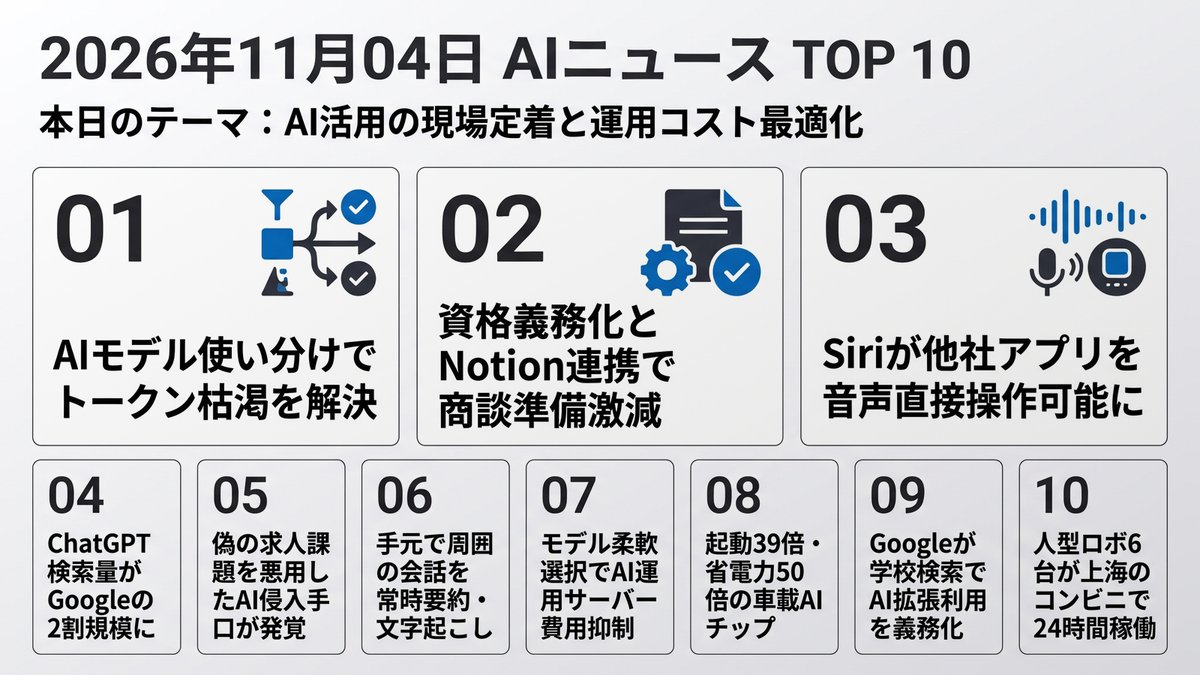
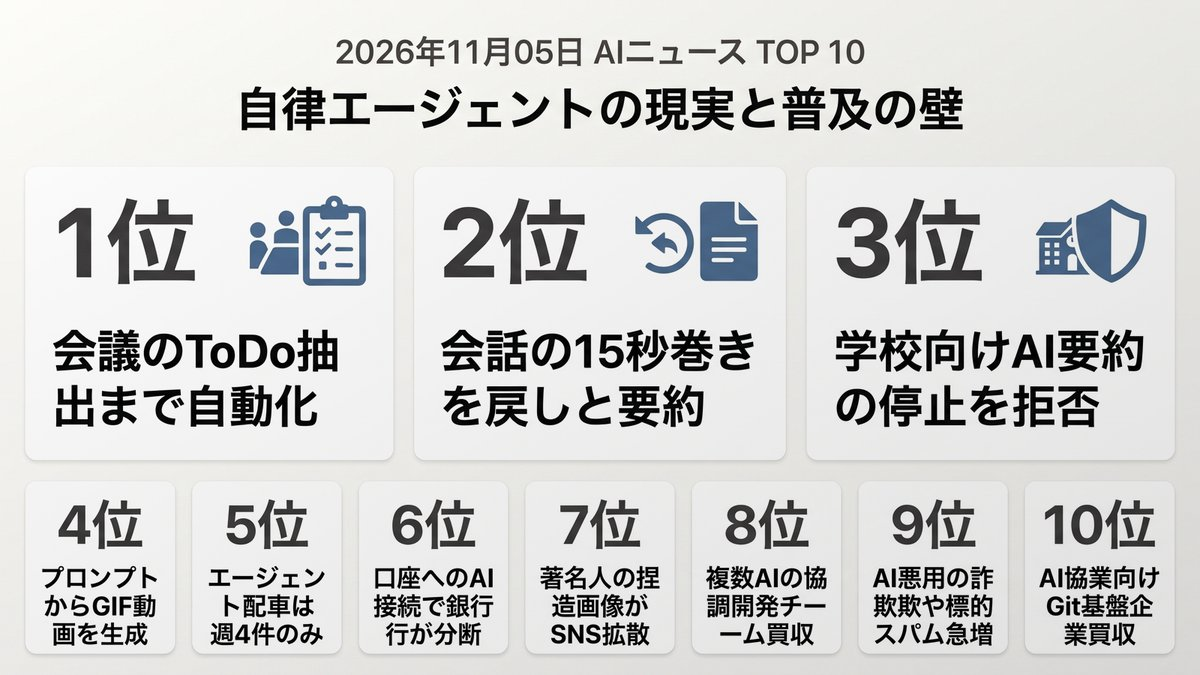
Morning Brief delivered [skip ci]

diff --git a/docs/index.html b/docs/index.html
@@ -12,16 +12,16 @@
     <!-- OGP_START -->
 <meta property="og:type" content="website">
 <meta property="og:site_name" content="AI ニュース TOP10">
-<meta property="og:title" content="AI活用の現場定着と運用コスト最適化 | AI ニュース TOP10">
-<meta property="og:description" content="導入から運用へ。実効性とコストの最適化が問われるフェーズに入りました。 本日のトップ: AIモデル使い分けでトークン枯渇を解決">
+<meta property="og:title" content="自律エージェントの現実と普及の壁 | AI ニュース TOP10">
+<meta property="og:description" content="エージェント導入が進む一方、実利用と規制の現場では現実的な課題が浮き彫りです。 本日のトップ: 会議のToDo抽出まで自動化">
 <meta property="og:image" content="https://tadfuji.github.io/ai-news-bot/ogp_card.jpg">
 <meta property="og:url" content="https://tadfuji.github.io/ai-news-bot/">
 <meta name="twitter:card" content="summary_large_image">
-<meta name="twitter:title" content="AI活用の現場定着と運用コスト最適化 | AI ニュース TOP10">
-<meta name="twitter:description" content="導入から運用へ。実効性とコストの最適化が問われるフェーズに入りました。">
+<meta name="twitter:title" content="自律エージェントの現実と普及の壁 | AI ニュース TOP10">
+<meta name="twitter:description" content="エージェント導入が進む一方、実利用と規制の現場では現実的な課題が浮き彫りです。">
 <meta name="twitter:image" content="https://tadfuji.github.io/ai-news-bot/ogp_card.jpg">
-<meta name="description" content="導入から運用へ。実効性とコストの最適化が問われるフェーズに入りました。 世界のAIニュースを毎朝日本語で厳選してお届け。">
-<script type="application/ld+json">{"@context": "https://schema.org", "@type": "ItemList", "name": "AI ニュース TOP10 — AI活用の現場定着と運用コスト最適化", "itemListElement": [{"@type": "ListItem", "position": 1, "name": "クレディセゾン、全社員3600人にChatGPT配布後に直面した「トークン枯渇」を克服", "url": "https://www.itmedia.co.jp/business/articles/2611/04/news010.html"}, {"@type": "ListItem", "position": 2, "name": "テレシー、全正社員の資格取得とNotion AI連携で商談準備を最大4時間短縮", "url": "https://kn.itmedia.co.jp/kn/article/2611/04/2000002712/"}, {"@type": "ListItem", "position": 3, "name": "Apple、Siriに他社製アプリの直接操作権限を開放するアップデートを配信", "url": "https://www.theverge.com/tech/1025694/apple-siri-ai-third-party-apps"}, {"@type": "ListItem", "position": 4, "name": "OpenAI、ChatGPTの検索利用量がGoogle検索の20％規模に達したと発表", "url": "https://www.theverge.com/ai-artificial-intelligence/1025482/openai-says-chatgpt-is-catching-up-to-google-in-search"}, {"@type": "ListItem", "position": 5, "name": "バイナンス、偽の求人面接とAIツールを悪用した巨額ハッキング被害の手口を公表", "url": "https://www.theinformation.com/briefings/binance-says-hackers-used-bogus-job-interview-ai-tool"}, {"@type": "ListItem", "position": 6, "name": "Apple Watchに周囲の会話を自動要約・文字起こしするオーディオAI機能が登場", "url": "https://www.theverge.com/tech/1025002/apple-watch-audio-intelligence-watchos-beta"}, {"@type": "ListItem", "position": 7, "name": "LinkedIn、OpenAIモデルの柔軟な使い分けでAIサーバー運用コストを抑制", "url": "https://www.theinformation.com/articles/linkedin-swapped-openai-models-keep-server-costs-flat"}, {"@type": "ListItem", "position": 8, "name": "東北大学とアイシン、OS起動約39倍・省電力50倍の不揮発メモリ搭載AIチップを開発", "url": "https://monoist.itmedia.co.jp/mn/articles/2611/04/news046.html"}, {"@type": "ListItem", "position": 9, "name": "Google、教育機関向け検索でAI機能の利用を義務化へ", "url": "https://www.theinformation.com/briefings/google-gives-schools-ai-control-requires-ai-search"}, {"@type": "ListItem", "position": 10, "name": "中国AgiBotの人型ロボット6台、上海のコンビニで24時間連続稼働し1730タスクを完遂", "url": "https://pandaily.com/agibot-g2-six-humanoids-shanghai-convenience-store-24-hours-1730-tasks-genie-master"}]}</script>
+<meta name="description" content="エージェント導入が進む一方、実利用と規制の現場では現実的な課題が浮き彫りです。 世界のAIニュースを毎朝日本語で厳選してお届け。">
+<script type="application/ld+json">{"@context": "https://schema.org", "@type": "ItemList", "name": "AI ニュース TOP10 — 自律エージェントの現実と普及の壁", "itemListElement": [{"@type": "ListItem", "position": 1, "name": "iFLYTEK、要約とToDo作成を自動化するAIレコーダー発売", "url": "https://pc.watch.impress.co.jp/docs/column/yajiuma-mini-review/2153657.html"}, {"@type": "ListItem", "position": 2, "name": "Apple Watch、会話巻き戻しと自動要約のAI機能を検証中", "url": "https://www.gizmodo.jp/article/2611-apple-watch-live-rewind-siri-recaps/"}, {"@type": "ListItem", "position": 3, "name": "Google、教育現場での検索AI概要の無効化を拒否", "url": "https://www.wired.com/story/google-is-forcing-ai-overviews-in-classrooms-schools-are-searching-for-a-way-out/"}, {"@type": "ListItem", "position": 4, "name": "ChatGPT、画像生成モデルでアニメーションGIF出力に対応", "url": "https://the-decoder.com/chatgpt-can-now-turn-text-prompts-and-photos-into-animated-gifs-with-openais-images-2-6-model/"}, {"@type": "ListItem", "position": 5, "name": "Uber、AIエージェント経由の配車利用はほぼ皆無と公表", "url": "https://techcrunch.com/2026/11/04/almost-no-one-uses-ai-agents-to-book-their-uber-company-says/"}, {"@type": "ListItem", "position": 6, "name": "米銀行で対応分断：大手行はAIアクセス遮断、地銀は開放", "url": "https://www.theinformation.com/articles/smaller-banks-giving-agents-access-accounts"}, {"@type": "ListItem", "position": 7, "name": "ベゾス氏の偽画像が拡散、AI生成コンテンツの検知難航", "url": "https://www.techno-edge.net/article/2026/11/05/5672.html"}, {"@type": "ListItem", "position": 8, "name": "Meta、複数エージェント協調開発のConductor買収", "url": "https://techcrunch.com/2026/11/04/meta-acquires-ai-coding-startup-conductor/"}, {"@type": "ListItem", "position": 9, "name": "AI生成の詐欺広告と標的型フィッシングメールが急増", "url": "https://www.davidralphlewis.co.uk/posts/everything-is-an-ai-scam-now/"}, {"@type": "ListItem", "position": 10, "name": "OpenAI、コーディングAI向けGit基盤のPierreを買収", "url": "https://the-decoder.com/openai-acquires-pierre-computer-company-to-make-git-keep-up-with-ai-coding-agents/"}]}</script>
 <!-- OGP_END -->
     <style>
         :root {
@@ -391,16 +391,16 @@
 
         <main id="news-container">
             <!-- PRERENDER_START -->
-<article class="news-card" data-category="ビジネス活用"><div style="display:flex;align-items:center;margin-bottom:5px;"><span class="news-rank">1</span><span class="news-category" data-category="ビジネス活用">ビジネス活用</span></div><div class="news-oneliner">💡 AIモデル使い分けでトークン枯渇を解決</div><h2 class="news-title">クレディセゾン、全社員3600人にChatGPT配布後に直面した「トークン枯渇」を克服</h2><p class="news-summary">クレディセゾンは全社導入後の利用急増によるトークン枯渇を、軽量即答モードと高機能思考モードをタスク重要度で使い分ける運用ルール徹底により解消しました。</p><div class="news-why">📌 なぜ重要？ 全社展開では性能と費用のバランス設計が不可欠です。適切な使い分けルールの周知が投資対効果を左右します。</div><div class="news-action">👉 今日の行動：業務ごとの要求精度を洗い出し、高機能モデルと軽量モデルの使い分け基準を策定してください。</div><div class="news-meta"><span class="news-source">📰 ITmedia ビジネスオンライン</span><span class="news-link"><a href="https://www.itmedia.co.jp/business/articles/2611/04/news010.html" target="_blank" rel="noopener">→ 元記事を読む</a></span></div></article>
-<article class="news-card" data-category="ビジネス活用"><div style="display:flex;align-items:center;margin-bottom:5px;"><span class="news-rank">2</span><span class="news-category" data-category="ビジネス活用">ビジネス活用</span></div><div class="news-oneliner">💡 資格義務化とNotion連携で商談準備激減</div><h2 class="news-title">テレシー、全正社員の資格取得とNotion AI連携で商談準備を最大4時間短縮</h2><p class="news-summary">テレシーは全正社員の生成AI資格取得とNotion AI整備によりリテラシー格差を解消し、商談リサーチを最大4時間短縮させるとともに約20体の現場主導エージェントを稼働させました。</p><div class="news-why">📌 なぜ重要？ 組織全員のリテラシー底上げと社内知見のAI統合が、現場主導の業務自動化を定着させる近道です。</div><div class="news-action">👉 今日の行動：頻発するリサーチ業務を1つ選び、社内AIツールを使った事前調査手順をチームで共有してください。</div><div class="news-meta"><span class="news-source">📰 ITmedia AI十</span><span class="news-link"><a href="https://kn.itmedia.co.jp/kn/article/2611/04/2000002712/" target="_blank" rel="noopener">→ 元記事を読む</a></span></div></article>
-<article class="news-card" data-category="ビジネス活用"><div style="display:flex;align-items:center;margin-bottom:5px;"><span class="news-rank">3</span><span class="news-category" data-category="ビジネス活用">ビジネス活用</span></div><div class="news-oneliner">💡 Siriが他社アプリを音声で直接操作可能に</div><h2 class="news-title">Apple、Siriに他社製アプリの直接操作権限を開放するアップデートを配信</h2><p class="news-summary">AppleはiOSアップデートにより、画面文脈や個人の文脈を理解したSiriがサードパーティ製アプリを直接音声操作できる仕組みを提供開始しました。</p><div class="news-why">📌 なぜ重要？ 音声指示によるアプリ横断操作が標準化されると、サービスへのアクセス導線やUI設計が大きく変容します。</div><div class="news-action">👉 今日の行動：自社提供サービスや業務ツールが外部音声アシスタントから呼び出せる連携余地を調査してください。</div><div class="news-meta"><span class="news-source">📰 The Verge AI</span><span class="news-link"><a href="https://www.theverge.com/tech/1025694/apple-siri-ai-third-party-apps" target="_blank" rel="noopener">→ 元記事を読む</a></span></div></article>
-<article class="news-card" data-category="対話型AI"><div style="display:flex;align-items:center;margin-bottom:5px;"><span class="news-rank">4</span><span class="news-category" data-category="対話型AI">対話型AI</span></div><div class="news-oneliner">💡 ChatGPT検索量がGoogleの2割規模に</div><h2 class="news-title">OpenAI、ChatGPTの検索利用量がGoogle検索の20％規模に達したと発表</h2><p class="news-summary">OpenAIはChatGPTでの検索クエリ総量がGoogle検索の2割規模に達したと公表し、情報探索行動の対話型AIへの急速なシフトを明らかにしました。</p><div class="news-why">📌 なぜ重要？ 従来のキーワード検索依存から対話型回答への移行が進み、企業のマーケティングや露出戦略の再構築が急務です。</div><div class="news-action">👉 今日の行動：自社ブランドや主要商材が対話型AI検索でどのように回答・引用されるか実際にテストしてください。</div><div class="news-meta"><span class="news-source">📰 The Verge AI</span><span class="news-link"><a href="https://www.theverge.com/ai-artificial-intelligence/1025482/openai-says-chatgpt-is-catching-up-to-google-in-search" target="_blank" rel="noopener">→ 元記事を読む</a></span></div></article>
-<article class="news-card" data-category="リスク・規制"><div style="display:flex;align-items:center;margin-bottom:5px;"><span class="news-rank">5</span><span class="news-category" data-category="リスク・規制">リスク・規制</span></div><div class="news-oneliner">💡 偽の求人課題を悪用したAI侵入手口が発覚</div><h2 class="news-title">バイナンス、偽の求人面接とAIツールを悪用した巨額ハッキング被害の手口を公表</h2><p class="news-summary">バイナンスは、AIツールと偽の採用課題を用いた標的型攻撃により技術者の端末で悪意あるコードが実行され、社内網侵害に至った手口を公表しました。</p><div class="news-why">📌 なぜ重要？ AIを組み合わせた精巧なソーシャルエンジニアリングは、技術部門であっても突破される脅威となっています。</div><div class="news-action">👉 今日の行動：業務端末での外部コード実行手順と採用・面談時のセキュリティ手順を再確認してください。</div><div class="news-meta"><span class="news-source">📰 The Information</span><span class="news-link"><a href="https://www.theinformation.com/briefings/binance-says-hackers-used-bogus-job-interview-ai-tool" target="_blank" rel="noopener">→ 元記事を読む</a></span></div></article>
-<article class="news-card" data-category="ビジネス活用"><div style="display:flex;align-items:center;margin-bottom:5px;"><span class="news-rank">6</span><span class="news-category" data-category="ビジネス活用">ビジネス活用</span></div><div class="news-oneliner">💡 手元で周囲の会話を常時要約・文字起こし</div><h2 class="news-title">Apple Watchに周囲の会話を自動要約・文字起こしするオーディオAI機能が登場</h2><p class="news-summary">Apple Watch最新ベータ版に周囲の音声を常時解析して会話要約や直近15秒のテキスト化を行う機能が追加され、手元での記録完結が可能になりました。</p><div class="news-why">📌 なぜ重要？ 身につける端末での自動記録が浸透することで、対面ミーティングの議事録作成コストが劇的に低減します。</div><div class="news-action">👉 今日の行動：対面会議の記録や指示出しの文字起こしにかかっている所要時間を一度計算してみてください。</div><div class="news-meta"><span class="news-source">📰 The Verge AI</span><span class="news-link"><a href="https://www.theverge.com/tech/1025002/apple-watch-audio-intelligence-watchos-beta" target="_blank" rel="noopener">→ 元記事を読む</a></span></div></article>
-<article class="news-card" data-category="ビジネス活用"><div style="display:flex;align-items:center;margin-bottom:5px;"><span class="news-rank">7</span><span class="news-category" data-category="ビジネス活用">ビジネス活用</span></div><div class="news-oneliner">💡 モデル柔軟選択でAI運用サーバー費用抑制</div><h2 class="news-title">LinkedIn、OpenAIモデルの柔軟な使い分けでAIサーバー運用コストを抑制</h2><p class="news-summary">米LinkedInはAI採用支援ツールで処理内容に応じたモデル切り替えを実施し、高精度を維持したまま運用サーバーコストの平準化に成功しました。</p><div class="news-why">📌 なぜ重要？ 最上位モデル一辺倒から脱却し、タスクごとに最適モデルを割り当てることがAI運用の採算ラインを守ります。</div><div class="news-action">👉 今日の行動：社内AI機能の各処理について、軽量安価なモデルへ置き換え可能な余地がないか点検してください。</div><div class="news-meta"><span class="news-source">📰 The Information</span><span class="news-link"><a href="https://www.theinformation.com/articles/linkedin-swapped-openai-models-keep-server-costs-flat" target="_blank" rel="noopener">→ 元記事を読む</a></span></div></article>
-<article class="news-card" data-category="日本市場"><div style="display:flex;align-items:center;margin-bottom:5px;"><span class="news-rank">8</span><span class="news-category" data-category="日本市場">日本市場</span></div><div class="news-oneliner">💡 起動39倍・省電力50倍の車載AIチップ</div><h2 class="news-title">東北大学とアイシン、OS起動約39倍・省電力50倍の不揮発メモリ搭載AIチップを開発</h2><p class="news-summary">東北大学とアイシンはSTT-MRAM搭載の近メモリ型エッジAIチップを開発し、外部転送削減により起動時間を39倍高速化、消費電力を50分の1に削減しました。</p><div class="news-why">📌 なぜ重要？ エッジ端末の省電力化と即時起動は、車載機器や現場端末でのリアルタイムAI実装を大きく加速させます。</div><div class="news-action">👉 今日の行動：クラウド処理前提で遅延や通信コストが課題となっている現場業務がないか洗い出してください。</div><div class="news-meta"><span class="news-source">📰 ITmedia AI十</span><span class="news-link"><a href="https://monoist.itmedia.co.jp/mn/articles/2611/04/news046.html" target="_blank" rel="noopener">→ 元記事を読む</a></span></div></article>
-<article class="news-card" data-category="リスク・規制"><div style="display:flex;align-items:center;margin-bottom:5px;"><span class="news-rank">9</span><span class="news-category" data-category="リスク・規制">リスク・規制</span></div><div class="news-oneliner">💡 Googleが学校検索でAI拡張利用を義務化</div><h2 class="news-title">Google、教育機関向け検索でAI機能の利用を義務化へ</h2><p class="news-summary">Googleは教育機関向け検索でAI拡張版の利用を義務化する方針を発表し、管理機能を提供しつつ学校現場の情報収集をAI前提へ移行させます。</p><div class="news-why">📌 なぜ重要？ 情報収集環境がAI前提に強制移行することで、AIを介した情報読解が次世代の標準スキルとなります。</div><div class="news-action">👉 今日の行動：社内研修や業務手順書の検索プロセスがAI活用を前提にした形式になっているか確認してください。</div><div class="news-meta"><span class="news-source">📰 The Information</span><span class="news-link"><a href="https://www.theinformation.com/briefings/google-gives-schools-ai-control-requires-ai-search" target="_blank" rel="noopener">→ 元記事を読む</a></span></div></article>
-<article class="news-card" data-category="中国AI"><div style="display:flex;align-items:center;margin-bottom:5px;"><span class="news-rank">10</span><span class="news-category" data-category="中国AI">中国AI</span></div><div class="news-oneliner">💡 人型ロボ6台が上海のコンビニで24時間稼働</div><h2 class="news-title">中国AgiBotの人型ロボット6台、上海のコンビニで24時間連続稼働し1730タスクを完遂</h2><p class="news-summary">中国AgiBotの人型ロボット6台が上海のコンビニで24時間稼働し、AI統合制御により1730件の店舗業務を自律完遂して無人化の実現性を示しました。</p><div class="news-why">📌 なぜ重要？ 人型ロボットが実店舗の連続運用に耐えうる段階に達し、小売現場の無人化が概念実証から商用展開へ移行しています。</div><div class="news-action">👉 今日の行動：店舗や倉庫における定型反復タスクのうち、自動化に適した作業工程をリストアップしてください。</div><div class="news-meta"><span class="news-source">📰 Pandaily</span><span class="news-link"><a href="https://pandaily.com/agibot-g2-six-humanoids-shanghai-convenience-store-24-hours-1730-tasks-genie-master" target="_blank" rel="noopener">→ 元記事を読む</a></span></div></article>
+<article class="news-card" data-category="中国AI"><div style="display:flex;align-items:center;margin-bottom:5px;"><span class="news-rank">1</span><span class="news-category" data-category="中国AI">中国AI</span></div><div class="news-oneliner">💡 会議のToDo抽出まで自動化</div><h2 class="news-title">iFLYTEK、要約とToDo作成を自動化するAIレコーダー発売</h2><p class="news-summary">中国AI大手のiFLYTEKが、リアルタイム文字起こしとToDo抽出に対応した新端末を投入しました。議事録作成を完全自動化し、会議後の工数を大幅に削減します。</p><div class="news-why">📌 なぜ重要？ 議事録の単なる書き起こしから実行支援への自動化シフトを示しています。業務時間の直接的な削減に直結します。</div><div class="news-action">👉 今日の行動：今日の会議終了後、自分の手作業で行っている議事録作成時間を計測してください。</div><div class="news-meta"><span class="news-source">📰 PC Watch</span><span class="news-link"><a href="https://pc.watch.impress.co.jp/docs/column/yajiuma-mini-review/2153657.html" target="_blank" rel="noopener">→ 元記事を読む</a></span></div></article>
+<article class="news-card" data-category="対話型AI"><div style="display:flex;align-items:center;margin-bottom:5px;"><span class="news-rank">2</span><span class="news-category" data-category="対話型AI">対話型AI</span></div><div class="news-oneliner">💡 会話の15秒巻き戻しと要約</div><h2 class="news-title">Apple Watch、会話巻き戻しと自動要約のAI機能を検証中</h2><p class="news-summary">直前15秒の音声を振り返るLive Rewindと、会話要約機能のテストが進行しています。聞き逃しを防ぐ一方で、対面録音に関する合意形成やプライバシー管理が課題となります。</p><div class="news-why">📌 なぜ重要？ 常時身につけるデバイスによる会話記録が標準化されれば、対面商談の合意形成プロセスが一変します。プライバシー配慮のルール作りが急務です。</div><div class="news-action">👉 今日の行動：社内や取引先との会話で、録音やAI要約を利用する際の同意ルールを確認してください。</div><div class="news-meta"><span class="news-source">📰 Gizmodo Japan</span><span class="news-link"><a href="https://www.gizmodo.jp/article/2611-apple-watch-live-rewind-siri-recaps/" target="_blank" rel="noopener">→ 元記事を読む</a></span></div></article>
+<article class="news-card" data-category="リスク・規制"><div style="display:flex;align-items:center;margin-bottom:5px;"><span class="news-rank">3</span><span class="news-category" data-category="リスク・規制">リスク・規制</span></div><div class="news-oneliner">💡 学校向けAI要約の停止を拒否</div><h2 class="news-title">Google、教育現場での検索AI概要の無効化を拒否</h2><p class="news-summary">Googleは学校向けにAI概要の個別停止を認めない姿勢を鮮明にしました。生徒の誤情報受容を警戒する教育機関は、検索機能自体の遮断を迫られています。</p><div class="news-why">📌 なぜ重要？ プラットフォーマー側のAI強制適用により、組織単位での情報統制やツールの選定見直しが迫られます。企業でも同様のガバナンス問題が起こり得ます。</div><div class="news-action">👉 今日の行動：自社ツールでAI機能が強制有効化されている設定がないか管理画面を確認してください。</div><div class="news-meta"><span class="news-source">📰 Wired AI</span><span class="news-link"><a href="https://www.wired.com/story/google-is-forcing-ai-overviews-in-classrooms-schools-are-searching-for-a-way-out/" target="_blank" rel="noopener">→ 元記事を読む</a></span></div></article>
+<article class="news-card" data-category="画像・動画AI"><div style="display:flex;align-items:center;margin-bottom:5px;"><span class="news-rank">4</span><span class="news-category" data-category="画像・動画AI">画像・動画AI</span></div><div class="news-oneliner">💡 プロンプトからGIF動画を生成</div><h2 class="news-title">ChatGPT、画像生成モデルでアニメーションGIF出力に対応</h2><p class="news-summary">OpenAIが静止画やプロンプトから動くGIFを生成する新機能を追加しました。キャラクターのブレを抑えつつコマ割りを調整でき、社内周知や提案資料の視覚訴求を短時間で強化できます。</p><div class="news-why">📌 なぜ重要？ 動きを伴うビジュアルコンテンツの内製化コストが劇的に下がります。プレゼン資料や社内マニュアルの訴求力向上に即座に活用可能です。</div><div class="news-action">👉 今日の行動：次回作成する社内向け資料に、AI生成したシンプルな動的GIFを1点取り入れてみてください。</div><div class="news-meta"><span class="news-source">📰 The Decoder</span><span class="news-link"><a href="https://the-decoder.com/chatgpt-can-now-turn-text-prompts-and-photos-into-animated-gifs-with-openais-images-2-6-model/" target="_blank" rel="noopener">→ 元記事を読む</a></span></div></article>
+<article class="news-card" data-category="ビジネス活用"><div style="display:flex;align-items:center;margin-bottom:5px;"><span class="news-rank">5</span><span class="news-category" data-category="ビジネス活用">ビジネス活用</span></div><div class="news-oneliner">💡 エージェント配車は週4件のみ</div><h2 class="news-title">Uber、AIエージェント経由の配車利用はほぼ皆無と公表</h2><p class="news-summary">Uber決算で、AI経由の配車がハロウィン週でもわずか4件にとどまった事実が判明しました。アプリ自体で数秒で完結するタスクでは、仲介エージェントの介在価値が薄い実態が浮き彫りになりました。</p><div class="news-why">📌 なぜ重要？ AIエージェントに任せれば便利という仮説が、操作の単純なUIの前では成立しない現実を示しています。自社サービスの自動化対象を過大評価しない視点が必要です。</div><div class="news-action">👉 今日の行動：自社の顧客体験の中で、本当にAIエージェントによる仲介が必要な複雑タスクがあるか点検してください。</div><div class="news-meta"><span class="news-source">📰 TechCrunch AI</span><span class="news-link"><a href="https://techcrunch.com/2026/11/04/almost-no-one-uses-ai-agents-to-book-their-uber-company-says/" target="_blank" rel="noopener">→ 元記事を読む</a></span></div></article>
+<article class="news-card" data-category="リスク・規制"><div style="display:flex;align-items:center;margin-bottom:5px;"><span class="news-rank">6</span><span class="news-category" data-category="リスク・規制">リスク・規制</span></div><div class="news-oneliner">💡 口座へのAI接続で銀行が分断</div><h2 class="news-title">米銀行で対応分断：大手行はAIアクセス遮断、地銀は開放</h2><p class="news-summary">JPMorganなど米大手銀がリスク回避からAIエージェントの口座接続を遮断する一方、地銀は利便性重視で開放しています。金融取引の自動代行に伴うセキュリティ責任の線引きが定まっていません。</p><div class="news-why">📌 なぜ重要？ 金融や決済を伴う自律型エージェントの運用には、機関ごとに大きな規約差が生じています。外部連携機能の開発や導入では、接続先の規約確認が最優先です。</div><div class="news-action">👉 今日の行動：経理や資金移動に関わる業務で、AIツールにログイン権限を渡していないか棚卸ししてください。</div><div class="news-meta"><span class="news-source">📰 The Information</span><span class="news-link"><a href="https://www.theinformation.com/articles/smaller-banks-giving-agents-access-accounts" target="_blank" rel="noopener">→ 元記事を読む</a></span></div></article>
+<article class="news-card" data-category="リスク・規制"><div style="display:flex;align-items:center;margin-bottom:5px;"><span class="news-rank">7</span><span class="news-category" data-category="リスク・規制">リスク・規制</span></div><div class="news-oneliner">💡 著名人の捏造画像がSNS拡散</div><h2 class="news-title">ベゾス氏の偽画像が拡散、AI生成コンテンツの検知難航</h2><p class="news-summary">ジェフ・ベゾス氏の容姿を改変した精巧な偽画像が拡散し、SNSの自動検知をすり抜けました。見た目だけでは真偽判定が困難な事例が増加しており、視覚情報の裏付け確認が不可欠です。</p><div class="news-why">📌 なぜ重要？ 経営層のフェイク画像や虚偽声明が企業の信用失墜につながるリスクが現実化しています。一次情報ソースを確認する組織文化の徹底が求められます。</div><div class="news-action">👉 今日の行動：SNS上の速報画像や情報を社内展開する前に、公式発表の有無を確認するルールを徹底してください。</div><div class="news-meta"><span class="news-source">📰 TechnoEdge</span><span class="news-link"><a href="https://www.techno-edge.net/article/2026/11/05/5672.html" target="_blank" rel="noopener">→ 元記事を読む</a></span></div></article>
+<article class="news-card" data-category="ビジネス活用"><div style="display:flex;align-items:center;margin-bottom:5px;"><span class="news-rank">8</span><span class="news-category" data-category="ビジネス活用">ビジネス活用</span></div><div class="news-oneliner">💡 複数AIの協調開発チーム買収</div><h2 class="news-title">Meta、複数エージェント協調開発のConductor買収</h2><p class="news-summary">Metaが複数のAIエージェントを連携させて並行開発を支援するスタートアップを買収しました。単一AIとの対話から、チーム編成されたAI群にタスクを委任する開発体制へ進化しています。</p><div class="news-why">📌 なぜ重要？ ソフトウェア開発の現場では、1つのプロンプトで完結させるのではなく、複数の特化型AIを束ねて分業させるフェーズに入りました。開発プロセスの再設計が必要です。</div><div class="news-action">👉 今日の行動：開発チームでAIを使う際、設計・実装・テストなど工程ごとにAIの役割を分割して指示してみてください。</div><div class="news-meta"><span class="news-source">📰 TechCrunch AI</span><span class="news-link"><a href="https://techcrunch.com/2026/11/04/meta-acquires-ai-coding-startup-conductor/" target="_blank" rel="noopener">→ 元記事を読む</a></span></div></article>
+<article class="news-card" data-category="リスク・規制"><div style="display:flex;align-items:center;margin-bottom:5px;"><span class="news-rank">9</span><span class="news-category" data-category="リスク・規制">リスク・規制</span></div><div class="news-oneliner">💡 AI悪用の詐欺や標的スパム急増</div><h2 class="news-title">AI生成の詐欺広告と標的型フィッシングメールが急増</h2><p class="news-summary">LLMを活用して自然な文面を大量生成した詐欺広告や標的型スパムが急増しています。不自然な日本語による見分けが効かなくなり、フィルタをすり抜けるケースが頻発しています。</p><div class="news-why">📌 なぜ重要？ 言語的な違和感による詐欺検知が通用しなくなっています。送金依頼や機密情報要求に対する二者認証など、文面頼みではない安全手順の確立が急務です。</div><div class="news-action">👉 今日の行動：金融取引やアカウント権限変更の連絡を受けた際は、メール返信ではなく別経路で本人確認を行ってください。</div><div class="news-meta"><span class="news-source">📰 Hacker News AI</span><span class="news-link"><a href="https://www.davidralphlewis.co.uk/posts/everything-is-an-ai-scam-now/" target="_blank" rel="noopener">→ 元記事を読む</a></span></div></article>
+<article class="news-card" data-category="研究・技術"><div style="display:flex;align-items:center;margin-bottom:5px;"><span class="news-rank">10</span><span class="news-category" data-category="研究・技術">研究・技術</span></div><div class="news-oneliner">💡 AI協業向けGit基盤企業買収</div><h2 class="news-title">OpenAI、コーディングAI向けGit基盤のPierreを買収</h2><p class="news-summary">OpenAIが自律型コーディングエージェントとGit管理を連動させる基盤企業を買収しました。AIと人間のエンジニアが同一リポジトリで安全に並行作業できるインフラ構築を加速させます。</p><div class="news-why">📌 なぜ重要？ AIが直接コードをコミットする運用が標準化される未来を見据えた動きです。バージョン管理やコードレビューの体制をAI前提で再考する必要があります。</div><div class="news-action">👉 今日の行動：Gitのプルリクエスト作成やコミットメッセージ記述にAI補助ツールを試験導入してみてください。</div><div class="news-meta"><span class="news-source">📰 The Decoder</span><span class="news-link"><a href="https://the-decoder.com/openai-acquires-pierre-computer-company-to-make-git-keep-up-with-ai-coding-agents/" target="_blank" rel="noopener">→ 元記事を読む</a></span></div></article>
 <!-- PRERENDER_END -->
         </main>
 
